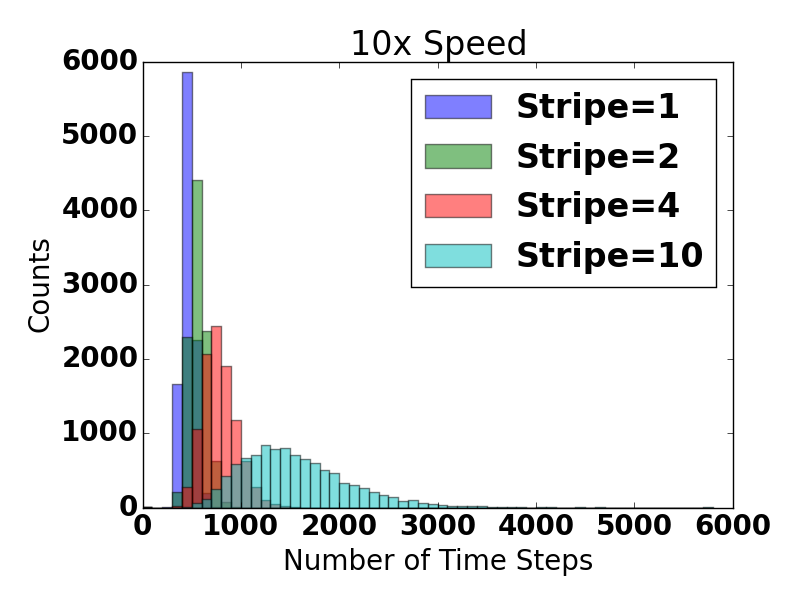
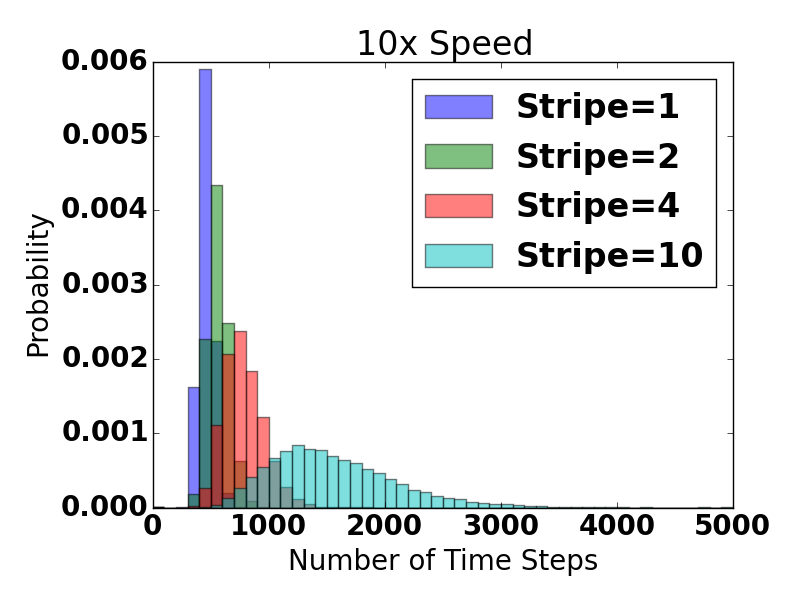
Change y axis labeling to probability
Regenerated plots

diff --git a/lung_sim.py b/lung_sim.py
@@ -133,7 +133,7 @@ def histogram_all(time_list, stripes, spacing=100, title="plot", plot_axis=None)
     
     plt.legend()
     plt.xlabel("Number of Time Steps")
-    plt.ylabel("Counts")
+    plt.ylabel("Probability")
     plt.title(title)
     plt.tight_layout()
     if not plot_axis == None:
